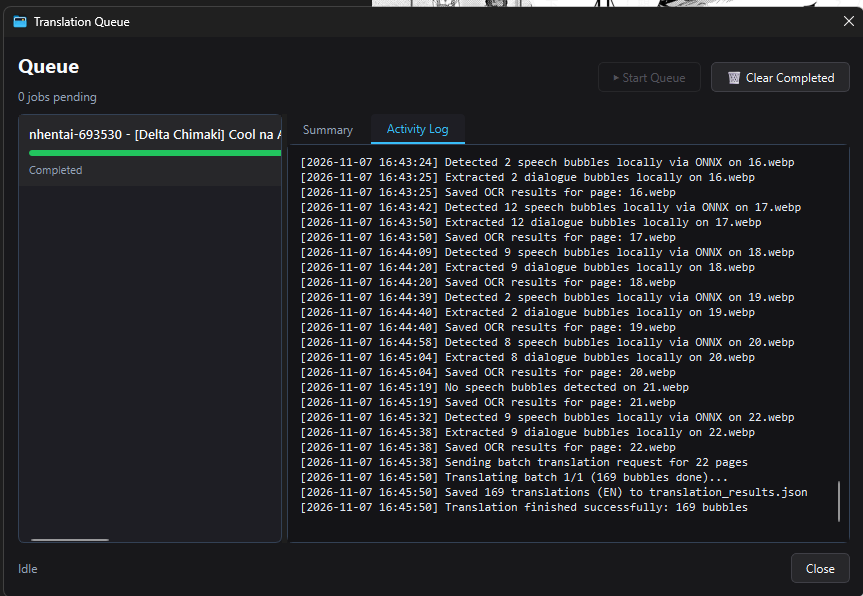
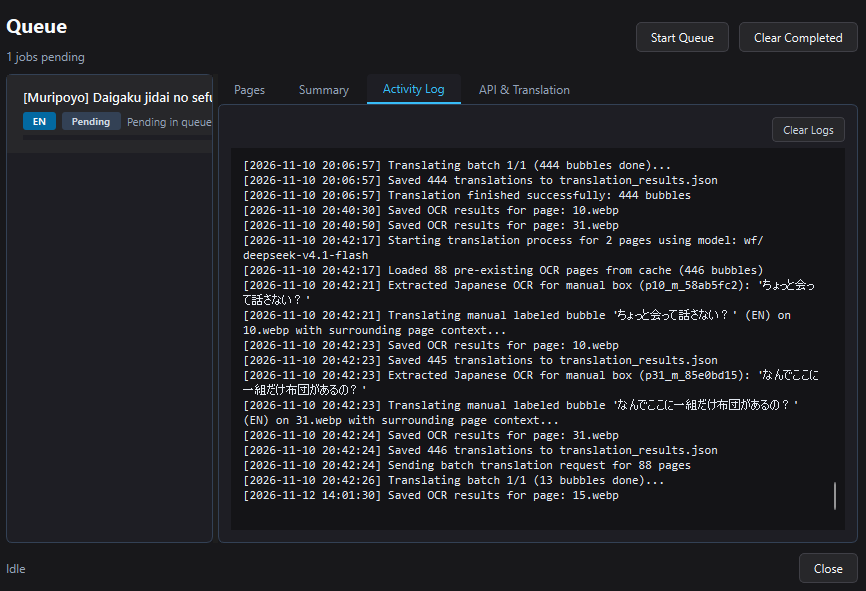
feat(assets): update screenshots with clean filenames and remove unused assets

diff --git a/src/styles/styles.css b/src/styles/styles.css
@@ -470,6 +470,7 @@ section { padding: clamp(64px, 9vw, 120px) 0; }
 .gallery { display: grid; gap: 40px; }
 .shot { display: grid; gap: 16px; }
 .gallery-2 { display: grid; grid-template-columns: 1fr 1fr; gap: 40px; }
+.gallery-3 { display: grid; grid-template-columns: repeat(3, 1fr); gap: 24px; }
 .caption h3 { font-size: 18px; font-weight: 700; letter-spacing: -0.015em; }
 .caption p { font-size: 14.5px; color: var(--ink-mute); margin-top: 4px; }
 
@@ -720,6 +721,7 @@ footer {
   .nav-side { gap: 10px; }
   .hero { padding-top: calc(var(--nav-height) + 24px); }
   .cards { grid-template-columns: repeat(2, 1fr); }
+  .gallery-3 { grid-template-columns: 1fr; }
   .stats { grid-template-columns: repeat(2, 1fr); }
   .stat:nth-child(2) { border-right: none; }
   .stat:nth-child(-n+2) { border-bottom: 1px solid var(--line); }
